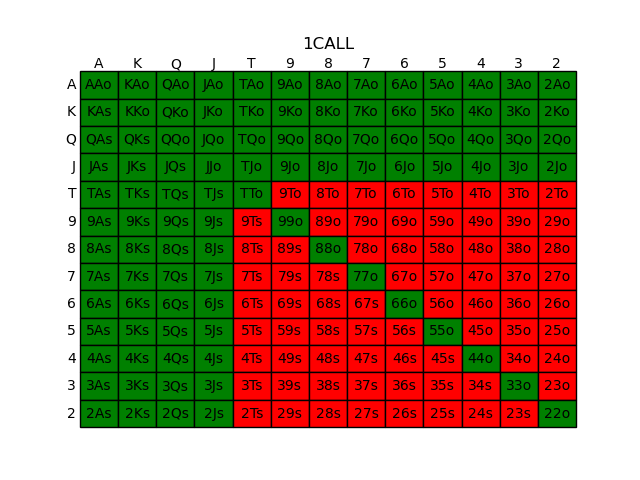
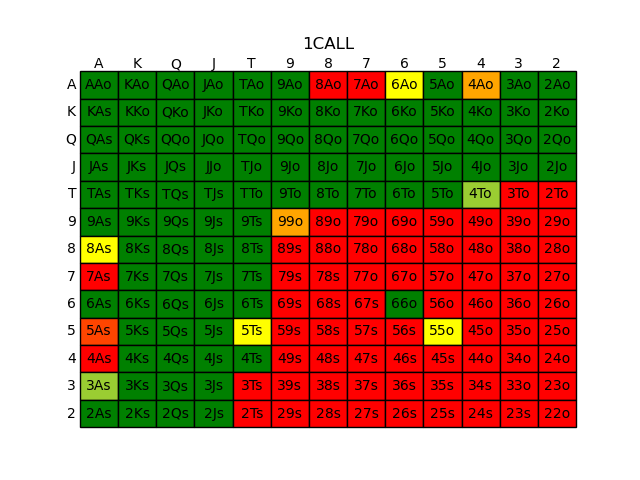
Fixed CFR bugs

diff --git a/game/GameWrapper.py b/game/GameWrapper.py
@@ -39,7 +39,7 @@ class GameWrapper:
             # Start a game
             game = self.game.copy()
             actions = self.start_game(game)
-            util += self.cfr(actions, game, 1, 1)
+            util += self.cfr(actions, game, 1, 1, 0)
 
         plt.plot(range(iterations), utils)
         plt.xlabel('iteration')
@@ -52,7 +52,7 @@ class GameWrapper:
         Gives the action played by each player based on the game states
         """
         result = {}
-        #
+
         events = {(1, "['', '']"): "1BET",  # P1 acts first
                   (2, "['C', '']"): "2BET",  # P2 responds to a call from P1
                   (2, "['B', '']"): "2CALLB",  # P2 responds to a bet from P1
@@ -79,32 +79,38 @@ class GameWrapper:
 
         return result
 
-    def evaluation(self, game):
+    def evaluation(self, game, player):
         reward = sum(game.bets.values())
-        p1 = game.players[game.player_list.pos]
-        p2 = game.players[1 - game.player_list.pos]
+        p1 = game.players[player]
+        p2 = game.players[1 - player]
+        if len(game.player_list.rotation) == 1:
+            return reward - game.bets[p1.uuid] if game.player_list.rotation[0].uuid == p1.uuid \
+                else -game.bets[p1.uuid]
+
         pair1 = Card.get_rank_int(p1.cards[0]) == Card.get_rank_int(p1.cards[1])
         pair2 = Card.get_rank_int(p2.cards[0]) == Card.get_rank_int(p2.cards[1])
-        higher = Card.get_rank_int(p1.cards[1]) > Card.get_rank_int(p2.cards[1])
-        equal = Card.get_rank_int(p1.cards[1]) == Card.get_rank_int(p2.cards[1])
+        higher1 = Card.get_rank_int(p1.cards[1]) > Card.get_rank_int(p2.cards[1])
+        higher2 = Card.get_rank_int(p1.cards[0]) > Card.get_rank_int(p2.cards[0])
+        equal1 = Card.get_rank_int(p1.cards[1]) == Card.get_rank_int(p2.cards[1])
+        equal2 = Card.get_rank_int(p1.cards[0]) == Card.get_rank_int(p2.cards[0])
+        equal = equal1 and equal2
+        higher = higher1 or (equal1 and higher2)
 
         if (pair1 and not pair2) or (pair1 and pair2 and higher) \
                 or (not pair1 and not pair2 and higher):
             return reward - game.bets[p1.uuid]
-        elif (pair2 and pair1 and equal) or (not pair1 and not pair2 and equal):
+        elif equal:
             return (reward / 2) - game.bets[p1.uuid]
         else:
             return -game.bets[p1.uuid]
 
-    def cfr(self, actions, game, p1, p2):
-        player = game.player_list.pos
-
+    def cfr(self, actions, game, p1, p2, player):
         probability_weight = p1 if player == 0 else p2
 
         # Check if state is terminal
         if game.player_list.visited_all():
             # Direct payout
-            return self.evaluation(game)
+            return self.evaluation(game, player)
 
         # Current game state
         state = self.hole_card_state(game, game.player_list.rotation[player])
@@ -126,9 +132,9 @@ class GameWrapper:
             next_actions = next_game.step_bets([x for x in actions], action)  # Make action
 
             if player == 0:
-                util[action] = -self.cfr(next_actions, next_game, p1 * strategy[action], p2)
+                util[action] = -self.cfr(next_actions, next_game, p1 * strategy[action], p2, 1)
             else:
-                util[action] = -self.cfr(next_actions, next_game, p1, p2 * strategy[action])
+                util[action] = -self.cfr(next_actions, next_game, p1, p2 * strategy[action], 0)
 
             node_util += strategy[action] * util[action]
 

diff --git a/util/DeepCFRNetwork.py b/util/DeepCFRNetwork.py
@@ -1,0 +1,22 @@
+import torch
+import torch.nn as nn
+import torch.nn.functional as F
+from treys import Card
+
+
+class CardEmbeddings(nn.Module):
+    def __init__(self, dim):
+        super(CardEmbeddings, self).__init__()
+        self.rank = nn.Embedding(13, dim)
+        self.suit = nn.Embedding(4, dim)
+        self.card = nn.Embedding(52, dim)
+
+    def forward(self, input):
+        n, num_cards = input.shape
+        x = input.view(-1)
+
+        embs = self.card(x) + self.rank(map(Card.get_rank_int, x)) \
+               + self.suit(map(Card.get_suit_int, x))
+
+        return embs.view(n, num_cards, -1).sum(axis=1)
+

diff --git a/main.py b/main.py
@@ -23,7 +23,7 @@ def run_game():
 
 def create_ranges():
     cfr = GameWrapper()
-    util = cfr.train(1000000)
+    util = cfr.train(5000000)
 
     label = ['A', 'K', 'Q', 'J', 'T', '9', '8', '7', '6', '5', '4', '3', '2']
     rank_index_map = {
